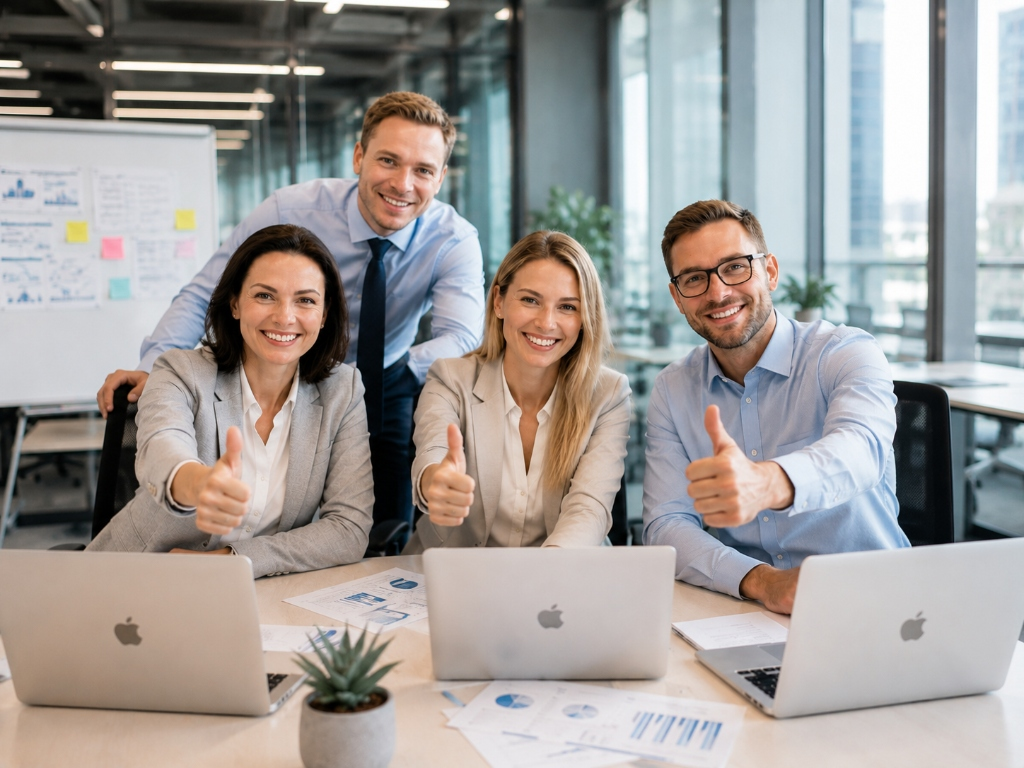
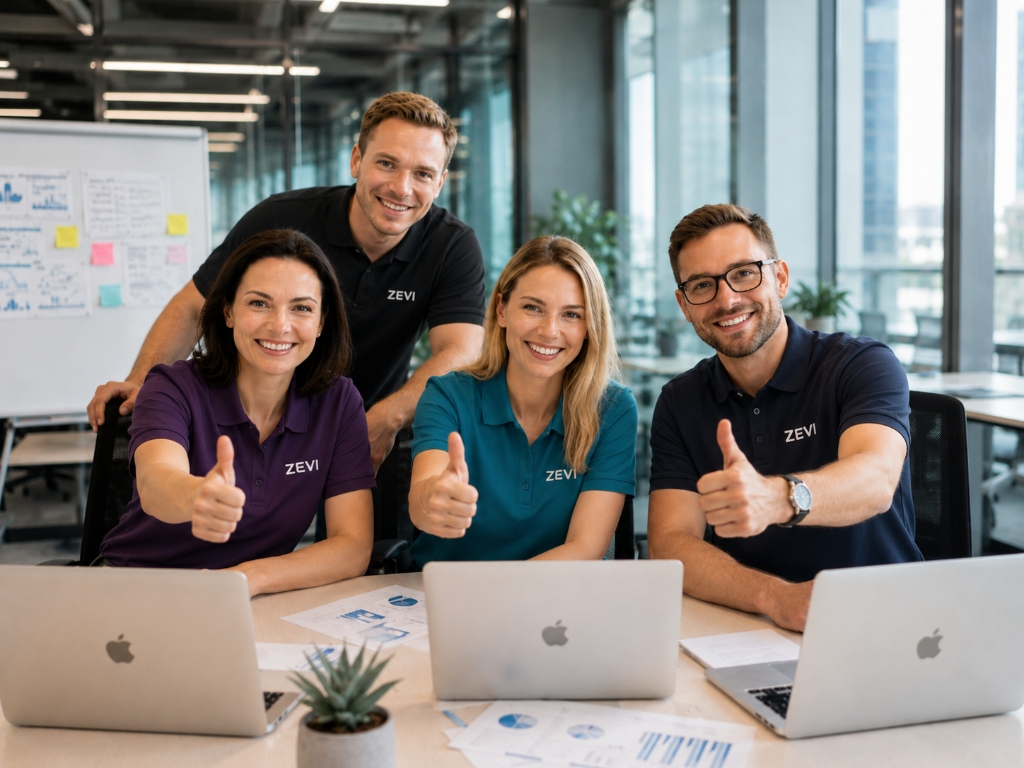
init

diff --git a/app/assets/stylesheets/digital_monkey.css b/app/assets/stylesheets/digital_monkey.css
@@ -149,19 +149,23 @@ img {
   font-family: var(--font-display);
   font-weight: 800;
   font-size: 22px;
-  color: #0b0f19;
+  color: var(--primary) !important;
 }
 
 .brand-logo img {
-  height: 48px;
-  width: auto;
+  height: 56px;
+  width: 56px;
   border-radius: 50%;
-  box-shadow: 0 4px 10px rgba(12, 58, 107, 0.15);
+  background-color: #ffffff !important;
+  padding: 4px;
+  border: 1px solid var(--light-border) !important;
+  box-shadow: 0 0 10px rgba(12, 58, 107, 0.08);
   transition: var(--transition);
+  object-fit: contain;
 }
 
-.brand-logo:hover img {
-  transform: rotate(10deg) scale(1.05);
+.brand-logo img:hover {
+  transform: rotate(5deg) scale(1.05);
 }
 
 .brand-logo span.highlight {
@@ -464,7 +468,7 @@ img {
   font-family: var(--font-display);
   font-size: 18px;
   font-weight: 600;
-  color: var(--primary);
+  color: var(--highlight-red) !important;
   text-transform: uppercase;
   letter-spacing: 2px;
   margin-bottom: 12px;
@@ -1027,8 +1031,14 @@ img {
 }
 
 .footer-col-brand .footer-logo img {
-  height: 48px;
+  height: 56px;
+  width: 56px;
   border-radius: 50%;
+  background-color: #ffffff !important;
+  padding: 4px;
+  border: 1px solid var(--light-border) !important;
+  box-shadow: 0 0 10px rgba(12, 58, 107, 0.08);
+  object-fit: contain;
 }
 
 .footer-col-brand .footer-logo span {
@@ -1152,15 +1162,37 @@ img {
   .mobile-menu-toggle {
     display: block;
   }
+  .carousel-wrapper {
+    aspect-ratio: 16/9 !important;
+    max-height: 520px;
+  }
   .carousel-overlay {
-    padding: 30px;
+    padding: 14px !important;
+  }
+  .carousel-content h3 {
+    font-size: 10px !important;
+    margin-bottom: 2px !important;
+    letter-spacing: 1px !important;
   }
   .carousel-content h1 {
-    font-size: 28px;
+    font-size: 18px !important;
+    margin-bottom: 4px !important;
+    line-height: 1.15 !important;
   }
   .carousel-content p {
-    font-size: 14px;
-    margin-bottom: 20px;
+    display: block !important;
+    font-size: 11px !important;
+    line-height: 1.3 !important;
+    margin-bottom: 8px !important;
+    color: #cbd5e1 !important;
+  }
+  .carousel-content .btn-primary {
+    padding: 6px 14px !important;
+    font-size: 11px !important;
+    height: auto !important;
+  }
+  .carousel-content .btn-primary span.material-symbols-outlined {
+    font-size: 14px !important;
   }
   .product-grid {
     grid-template-columns: 1fr;
@@ -1178,7 +1210,7 @@ img {
     position: relative !important;
     width: 100% !important;
     background-color: var(--light-surface) !important;
-    border-bottom: 2px solid var(--primary);
+    border-bottom: 1px solid var(--light-border) !important;
     z-index: 100;
     max-height: 0;
     overflow: hidden;
